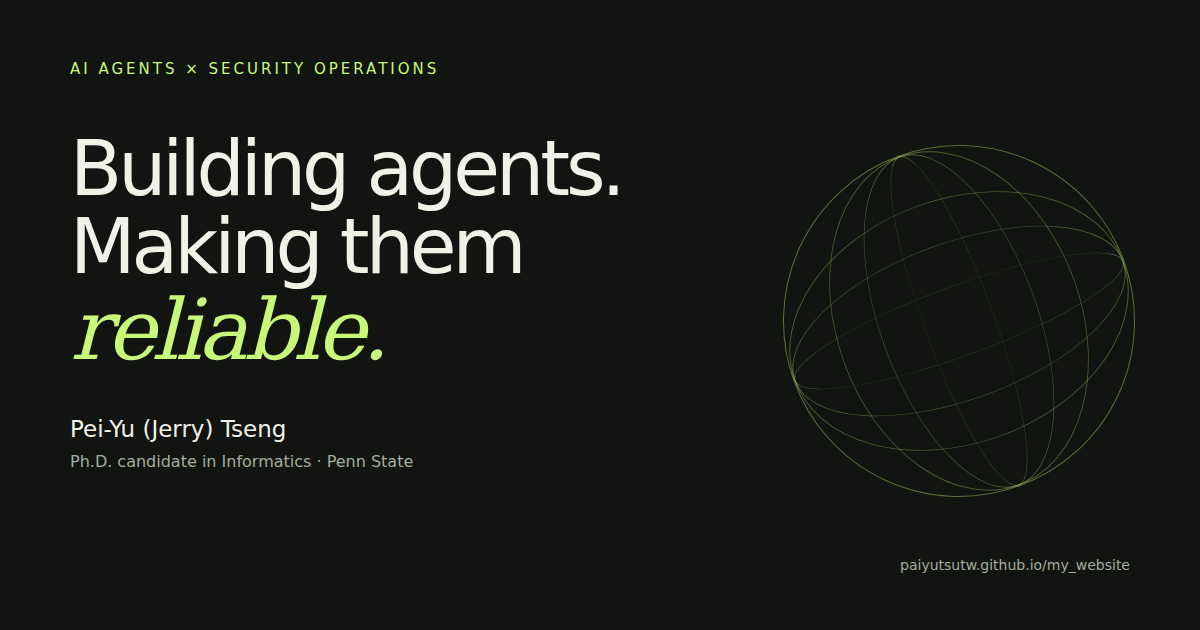
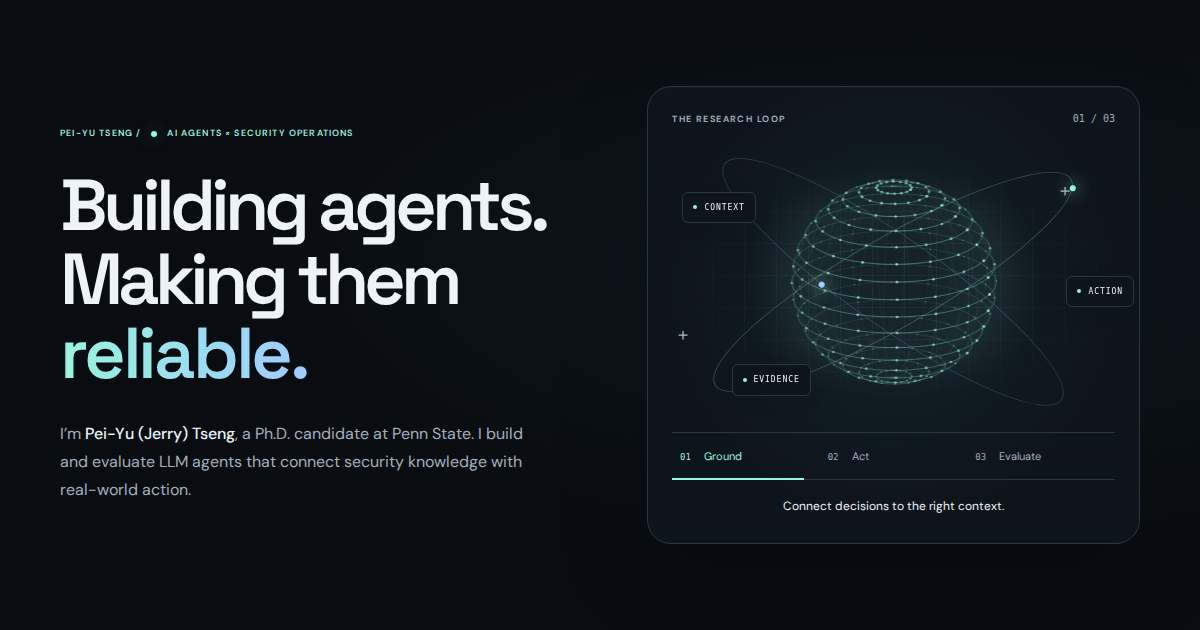
Restyle portfolio with dark technology visuals and animated service connections

diff --git a/site/src/styles/tech.css b/site/src/styles/tech.css
@@ -1,0 +1,82 @@
+/* Original Astro/CSS treatment; visual references are documented in docs/DESIGN_REFERENCES.md. */
+@media screen {
+  h1, h2 { font-weight: 600; }
+  h1 em, h2 em { font-family: inherit; font-style: normal; font-weight: inherit; color: var(--accent); }
+  .header-inner { height: 88px; }
+  .desktop-nav { border: 1px solid var(--line); border-radius: 40px; padding: 5px 24px; background: var(--surface-soft); }
+  .desktop-nav a[aria-current=page]:after { bottom: 3px; }
+  .button { border-radius: 30px; }
+  .button.primary { box-shadow: 0 0 28px color-mix(in srgb, var(--accent) 12%, transparent); }
+  .hero { position: relative; isolation: isolate; min-height: 770px; gap: 40px; padding-block: 85px; }
+  .hero:before { content: ''; position: absolute; inset: 0; z-index: -1; background: radial-gradient(ellipse at 77% 42%, #4babcf13, transparent 55%); pointer-events: none; }
+  .hero h1 { font-size: clamp(65px, 6.2vw, 88px); line-height: 1.02; letter-spacing: -.07em; }
+  .hero h1 em { font-size: 1em; background: linear-gradient(100deg, var(--accent), #a1caff); background-clip: text; color: transparent; }
+  [data-theme=light] .hero h1 em { background-image: linear-gradient(100deg, #176550, #2c5792); }
+  .heading-dot { display: none; }
+  .hero-kicker { color: var(--accent); letter-spacing: .13em; }
+  .hero-intro { max-width: 470px; }
+  .hero-affiliation { border: 0; }
+  .status-dot { box-shadow: 0 0 15px color-mix(in srgb, var(--accent) 55%, transparent); }
+  .agent-field { border: 1px solid var(--line); border-radius: 24px; padding: 24px 0 18px; background: radial-gradient(ellipse at 50% 45%, #58d7c310, transparent 65%), var(--surface-soft); box-shadow: 0 30px 100px #00000020, inset 0 1px #ffffff08; }
+  .field-visual { height: 355px; margin-top: 4px; }
+  .field-grid { opacity: .4; background-size: 32px 32px; }
+  .field-halo { position: absolute; inset: 18%; border-radius: 50%; background: radial-gradient(circle, #98f4db06 20%, #98f4db18 60%, transparent 71%); filter: blur(16px); }
+  .field-orbit { position: absolute; left: 8%; right: 8%; top: 35%; height: 30%; border: 1px solid color-mix(in srgb, var(--accent) 25%, transparent); border-radius: 50%; transform: rotate(-30deg); }
+  .orbit-two { transform: rotate(35deg); border-color: #89bfff35; }
+  .field-orbit:after { content: ''; position: absolute; width: 6px; height: 6px; border-radius: 50%; background: var(--accent); box-shadow: 0 0 15px 3px #98f4db70; offset-path: ellipse(50% 50%); animation: orbit-travel 9s linear infinite; }
+  .orbit-two:after { background: #a1caff; animation-delay: -4s; animation-duration: 13s; }
+  .agent-field[data-motion=paused] .field-orbit:after { animation-play-state: paused; }
+  .field-label { border-radius: 6px; background: var(--surface-soft); padding: 8px 10px; font-size: 8px; box-shadow: 0 5px 20px #00000010; }
+  .field-bottom { display: flex; align-items: center; justify-content: space-between; gap: 12px; margin: 14px 24px 0; }
+  .field-note { margin: 0; font-size: 8px; text-align: left; }
+  .field-motion { color: var(--muted); border: 1px solid var(--line); background: var(--bg); border-radius: 12px; padding: 3px 9px; font-size: 9px; white-space: nowrap; }
+  .research-strip { background: linear-gradient(90deg, var(--bg), var(--surface), var(--bg)); }
+  .project-card { border-radius: 18px; background: var(--surface-soft); position: relative; transition: border-color .25s, transform .25s, box-shadow .25s; }
+  .project-card:hover, .project-card:focus-within { border-color: color-mix(in srgb, var(--accent) 60%, var(--line)); box-shadow: 0 0 35px color-mix(in srgb, var(--accent) 8%, transparent); transform: translateY(-4px); }
+  .project-card .project-art { border-radius: 17px 17px 0 0; }
+  .project-art { background-image: radial-gradient(ellipse at 50% 120%, #91dfff13, transparent 70%), radial-gradient(var(--line) .6px, transparent .6px); background-size: auto, 20px 20px; }
+  .mini-node, .state-pair, .flow-block { border-radius: 8px; }
+  .mini-node, .diagram-line { border-color: var(--accent); }
+  .diagram-line, .diagram-line:after { background-color: var(--line); border-color: var(--accent); }
+  .art-workflow { background-color: #0e1b25; }
+  .art-regex { background-color: #1d1a1e; }
+  .art-evaluation { background-color: #171624; }
+  .project-detail>.project-art { border-radius: 18px; }
+  .portrait-wrap { border-radius: 18px; }
+  .portrait-wrap img { border-radius: 10px; }
+  .about-band { background: radial-gradient(ellipse at 15% 70%, #719fe70b, transparent 70%), var(--surface-soft); }
+  .page-heading h1, .project-detail-heading h1 { letter-spacing: -.06em; }
+  .site-footer { background: radial-gradient(ellipse at 50% 100%, #98f4db08, transparent 70%); }
+}
+@keyframes orbit-travel { to { offset-distance: 100%; } }
+@media screen and (max-width: 1100px) {
+  .hero { gap: 24px; min-height: 690px; padding-block: 65px; }
+  .hero h1 { font-size: 66px; }
+  .field-visual { height: 320px; }
+  .field-top, .field-controls { margin-inline: 18px; }
+  .desktop-nav { padding-inline: 18px; gap: 18px; }
+}
+@media screen and (max-width: 800px) {
+  .header-inner { height: 78px; }
+  .hero { gap: 44px; padding-block: 50px; }
+  .hero h1 { font-size: clamp(48px, 10vw, 78px); }
+  .hero h1 em { font-size: 1em; }
+  .agent-field { padding-top: 24px; }
+  .field-visual { height: 350px; }
+}
+@media screen and (max-width: 540px) {
+  .hero h1 { font-size: clamp(44px, 12.5vw, 66px); }
+  .hero { padding-top: 46px; }
+  .field-visual { height: 280px; }
+  .field-top, .field-controls { margin-inline: 18px; }
+  .field-bottom { margin-inline: 18px; }
+  .field-step { font-size: 10px; padding-inline: 3px; }
+  .field-step span { font-size: 8px; margin-right: 5px; }
+  .field-label { font-size: 7px; }
+  .label-context { left: 4%; }
+  .label-action { right: 3%; }
+}
+@media(prefers-reduced-motion: reduce) {
+  .field-orbit:after { animation: none; }
+  .project-card:hover { transform: none; }
+}

diff --git a/site/src/styles/global.css b/site/src/styles/global.css
@@ -1,5 +1,5 @@
-:root{color-scheme:dark;--bg:#111410;--surface:#191d17;--surface-soft:#151913;--text:#f1f1e8;--muted:#a5ad9d;--line:#32382d;--accent:#c8f879;--ink:#17210e;--art:#161e13;--header:rgba(17,20,16,.94);font-family:'DM Sans Variable',sans-serif;font-synthesis:none;scroll-behavior:smooth;scroll-padding-top:110px}
-:root[data-theme=light]{color-scheme:light;--bg:#f5f5ed;--surface:#eaece1;--surface-soft:#eef0e7;--text:#20271c;--muted:#58624e;--line:#cdd4c3;--accent:#426313;--ink:#fff;--art:#e1e9d6;--header:rgba(245,245,237,.96)}
+:root{color-scheme:dark;--bg:#090c11;--surface:#121821;--surface-soft:#0e141c;--text:#edf3f8;--muted:#a3afbd;--line:#2c3643;--accent:#98f4db;--ink:#09231b;--art:#0d1b21;--header:rgba(9,12,17,.86);font-family:'DM Sans Variable',sans-serif;font-synthesis:none;scroll-behavior:smooth;scroll-padding-top:110px}
+:root[data-theme=light]{color-scheme:light;--bg:#f3f7fa;--surface:#e8eef3;--surface-soft:#edf3f6;--text:#16212c;--muted:#526272;--line:#c4d0da;--accent:#176550;--ink:#fff;--art:#deeced;--header:rgba(243,247,250,.9)}
 *{box-sizing:border-box}body{margin:0;background:var(--bg);color:var(--text);font-size:16px;line-height:1.65}a{color:inherit;text-decoration:none}button{font:inherit;cursor:pointer}button,a{-webkit-tap-highlight-color:transparent}button{color:inherit}img,svg{display:block}img{max-width:100%;height:auto}::selection{background:var(--accent);color:var(--ink)}:focus-visible{outline:2px solid var(--accent);outline-offset:6px}button:focus-visible{outline-offset:3px}h1,h2,h3,h4,p{margin:0}h1,h2,h3{font-family:'Space Grotesk Variable',sans-serif;font-weight:500;line-height:1.15;letter-spacing:-.055em}h1 em,h2 em{font-family:Georgia,serif;font-weight:400;letter-spacing:-.045em}h2{font-size:46px}h3{font-size:25px;letter-spacing:-.035em}.container{max-width:1328px;margin-inline:auto;padding-inline:56px}[hidden]{display:none!important}.eyebrow{display:block;font-size:11px;letter-spacing:.16em;font-weight:650;line-height:1.5}.arrow{flex-shrink:0;transition:transform .2s}.text-link{display:inline-flex;align-items:center;gap:12px;font-size:14px;font-weight:550;line-height:1.5;border-bottom:1px solid var(--line);padding-bottom:6px;width:fit-content}.text-link:hover{border-color:var(--accent);color:var(--accent)}a:hover .arrow{transform:translate(2px,-2px)}.small{font-size:12px}.button{display:inline-flex;gap:24px;align-items:center;justify-content:center;padding:15px 23px;border:1px solid var(--line);font-size:14px;font-weight:650;line-height:1.4;border-radius:4px;transition:transform .2s}.button.primary{background:var(--accent);border-color:var(--accent);color:var(--ink)}.button:hover{transform:translateY(-2px)}.skip-link{position:absolute;left:20px;top:-100px;z-index:50;background:var(--accent);color:var(--ink);padding:10px 20px}.skip-link:focus{top:16px}
 /* Navigation */
 .site-header{position:sticky;top:0;z-index:20;background:var(--header);backdrop-filter:blur(16px);border-bottom:1px solid var(--line)}.header-inner{height:96px;display:flex;align-items:center;justify-content:space-between;gap:24px}.wordmark{display:flex;align-items:center;gap:14px;font-size:12px;font-weight:700;letter-spacing:.045em;line-height:1.3}.mark{position:relative;display:flex;align-items:center;font-family:'Space Grotesk Variable',sans-serif;font-size:37px;letter-spacing:-.18em;font-weight:600;width:45px;height:45px}.mark span{margin-top:-5px}.mark i{width:7px;height:7px;position:absolute;bottom:5px;right:0;background:var(--accent);border-radius:50%}.wordmark-sub{display:block;font-size:8px;letter-spacing:.13em;color:var(--muted);margin-top:5px}.desktop-nav{display:flex;gap:29px;margin-left:32px}.desktop-nav a{position:relative;padding:8px 0;color:var(--muted);font-size:13px}.desktop-nav a:hover,.desktop-nav a[aria-current=page]{color:var(--text)}.desktop-nav a[aria-current=page]:after{content:'';position:absolute;bottom:0;left:0;width:15px;height:2px;background:var(--accent)}.header-actions{display:flex;align-items:center;gap:22px}.icon-button{padding:10px;background:none;border:1px solid var(--line);display:grid;place-items:center;border-radius:50%;width:40px;height:40px}.icon-button:hover{background:var(--surface)}.contact-nav{display:flex;align-items:center;gap:12px;font-size:13px;font-weight:600}.contact-nav .arrow{width:16px;height:16px}.menu-toggle,.mobile-nav{display:none}

diff --git a/site/tests/pipeline-demo.spec.ts b/site/tests/pipeline-demo.spec.ts
@@ -10,6 +10,11 @@ test('service comparison is visible immediately and only the mock is rebuilt', a
   await expect(lab.locator('.lab-after')).toBeVisible();
   await expect(lab.locator('.lab-agent')).toContainText('Pipeline1 agent');
   await expect(lab.locator('.lab-generation')).toContainText('generates');
+  await lab.getByRole('button', { name: 'Pause light effects' }).click();
+  await expect(lab).toHaveAttribute('data-effects', 'paused');
+  await expect(lab.locator('.beam-generation .beam-light').last()).toHaveCSS('animation-play-state', 'paused');
+  await lab.getByRole('button', { name: 'Resume light effects' }).click();
+  await expect(lab).toHaveAttribute('data-effects', 'running');
   const originalPath = await lab.locator('.lab-before').innerText();
   const unchangedTools = await lab.locator('.lab-after .lab-playbook, .lab-after .lab-connector').allTextContents();
   await lab.getByRole('button', { name: 'Before', exact: true }).click();
@@ -55,6 +60,8 @@ test('comparison is accessible in both themes and reduced motion preserves contr
   await page.goto(route);
   const lab = page.locator('.pipeline-lab');
   await expect(lab.getByRole('button', { name: 'Watch the replacement' })).toBeHidden();
+  await expect(lab.locator('[data-effects-toggle]')).toBeHidden();
+  await expect(lab).toHaveAttribute('data-effects', 'paused');
   for (const theme of ['dark', 'light']) {
     if (theme === 'light') await page.getByRole('button', { name: 'Switch to light theme' }).click();
     for (const view of ['Before', 'With Pipeline1']) {

diff --git a/site/tests/site.spec.ts b/site/tests/site.spec.ts
@@ -28,6 +28,13 @@ test('theme persists and research loop controls respond', async ({ page }) => {
   await page.getByRole('button', { name: '03 Evaluate' }).click();
   await expect(page.locator('.field-caption')).toHaveText('Inspect outcomes, not just model outputs.');
   await expect(page.getByRole('button', { name: '03 Evaluate' })).toHaveAttribute('aria-pressed', 'true');
+  await page.getByRole('button', { name: 'Pause motion', exact: true }).click();
+  await expect(page.locator('.agent-field')).toHaveAttribute('data-motion', 'paused');
+  await page.getByRole('button', { name: 'Resume motion', exact: true }).click();
+  await expect(page.locator('.agent-field')).toHaveAttribute('data-motion', 'running');
+  await page.emulateMedia({ reducedMotion: 'reduce' });
+  await expect(page.locator('.agent-field')).toHaveAttribute('data-motion', 'paused');
+  await expect(page.locator('.field-motion')).toBeHidden();
 });
 
 test('research filters work and each project opens', async ({ page }) => {

diff --git a/docs/DESIGN_REFERENCES.md b/docs/DESIGN_REFERENCES.md
@@ -1,0 +1,20 @@
+# Design references
+
+The October 2026 visual update follows Jerry's preference for dark surfaces, large typography, light, and flowing animation. The Pipeline1 explanation keeps both service paths visible: the same playbook and real connector can call an agent-generated, disposable software mock in place of a real service.
+
+Visual references:
+
+- [Void, Framer Marketplace](https://www.framer.com/marketplace/templates/void/): dark portfolio framing, strong typography, and small technical labels.
+- [Magic UI — Animated Beam](https://magicui.design/docs/components/animated-beam): light traveling along connections to explain relationships between systems.
+- [Aceternity UI — Glowing Effect](https://ui.aceternity.com/components/glowing-effect): restrained light around card edges.
+
+These are visual references, not installed templates. All layouts, animation code, and graphics in this update are implemented locally with Astro, CSS, SVG, and canvas. No template source, paid assets, React dependency, or remote animation service is included.
+
+## Interaction and fallback
+
+- The homepage research sphere and its orbit lights have a pause control.
+- Pipeline1 uses measured SVG paths to connect service nodes and the generation agent to the actual mock node, including on mobile.
+- Light effects can pause independently from the three-step explanatory sequence. The replacement sequence runs only when requested.
+- Animation pauses outside the viewport and when the document is hidden. Reduced-motion preferences retain the comparison and mock-rebuild controls without continuous animation.
+- Both service paths and the agent explanation remain readable without JavaScript.
+- The standalone HTML export embeds the built CSS, fonts, component script, and downloadable SVG for offline viewing.

diff --git a/README.md b/README.md
@@ -29,6 +29,7 @@ npm run preview
 - `site/src/pages/`: homepage, research index, publication list, printable CV,
   and generated project pages.
 - `site/src/styles/global.css`: colors, typography, responsive and print styles.
+- `site/src/styles/tech.css`: dark technology theme, light accents, and orbit effects.
 - `site/src/components/AgentField.astro`: conceptual research-loop visualization.
 - `site/src/components/PipelineLab.astro`: before/after service-replacement diagram,
   with agent generation, a short animation, and disposable mock rebuilding.
@@ -38,6 +39,7 @@ npm run preview
 - `site/src/assets/profile.png`: portrait, optimized to WebP at build time.
 - `docs/CONTENT_SOURCES.md`: sources, factual qualifications, and outstanding
   publication metadata to confirm.
+- `docs/DESIGN_REFERENCES.md`: template inspiration, original implementation, and motion behavior.
 
 Publication venues and statuses are explicit. Ongoing projects are described as
 research rather than production deployments. The CV page has a **Print / Save
